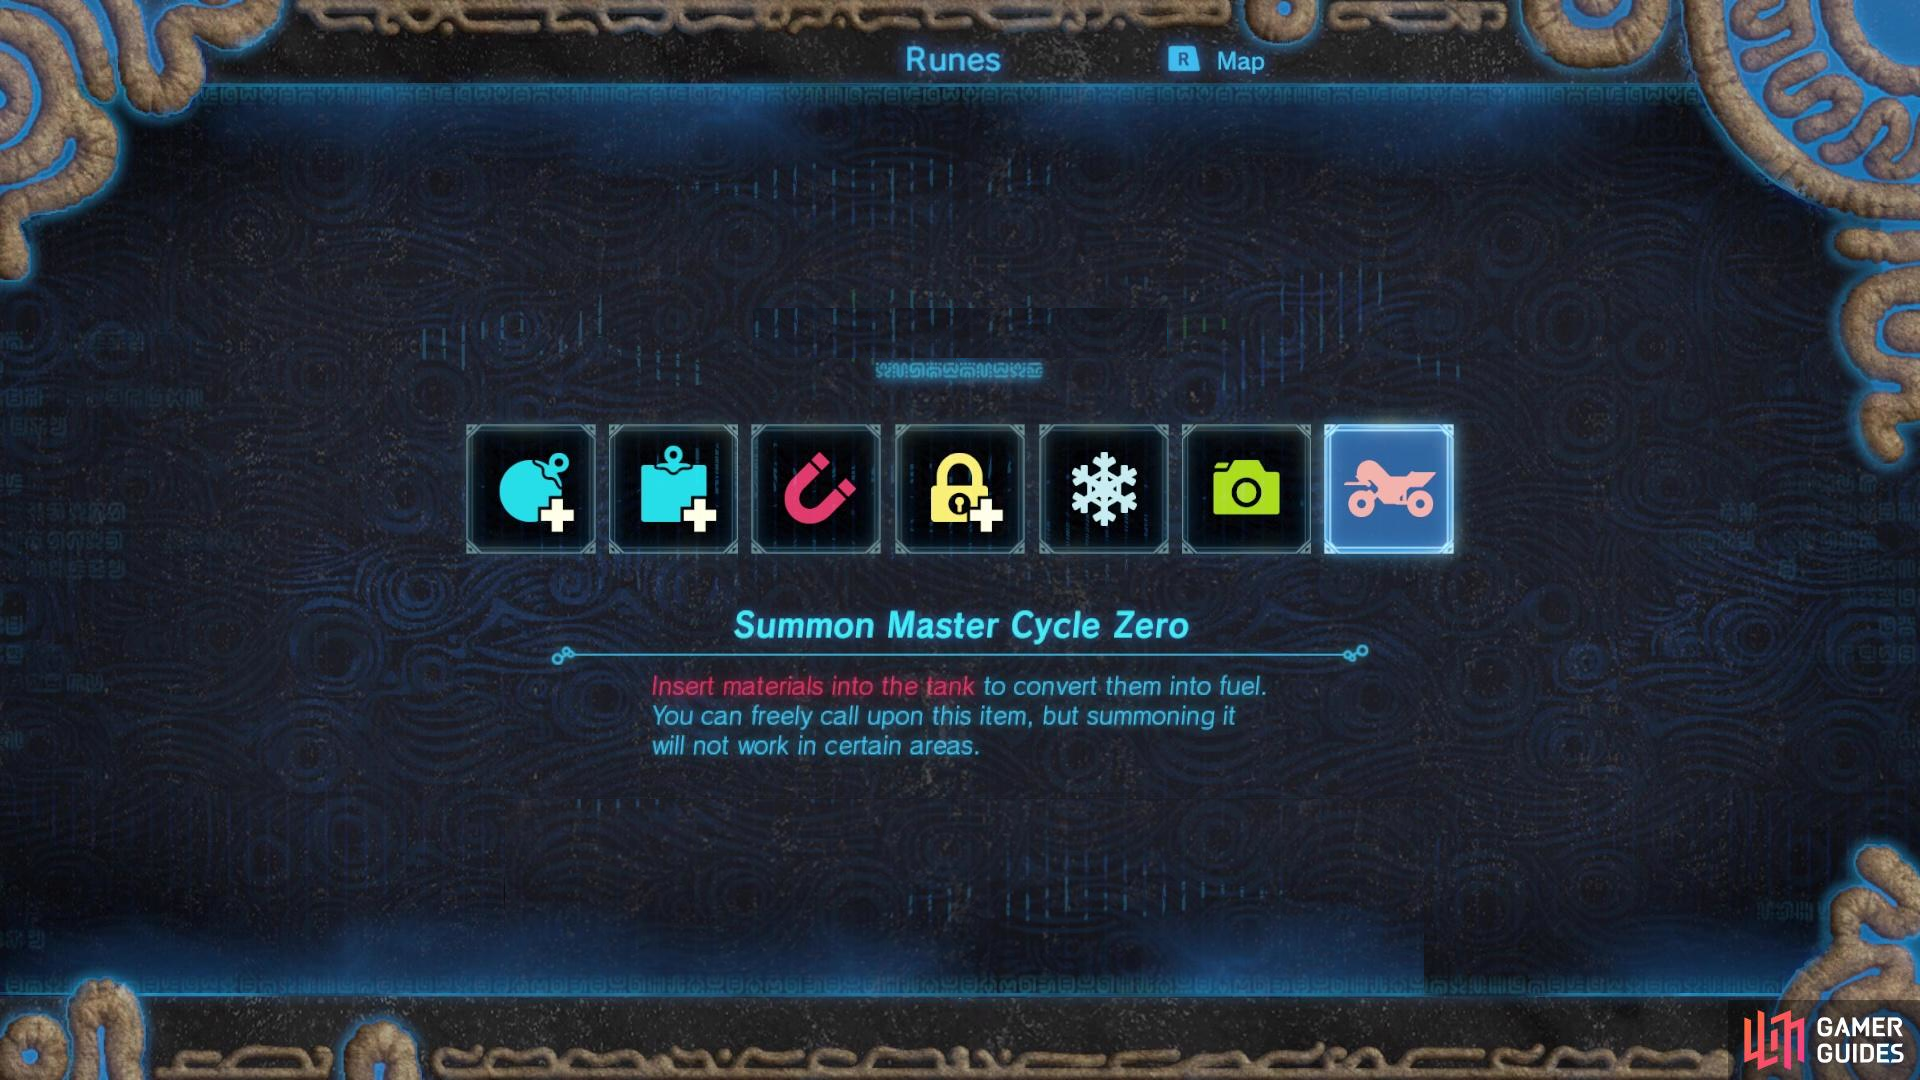
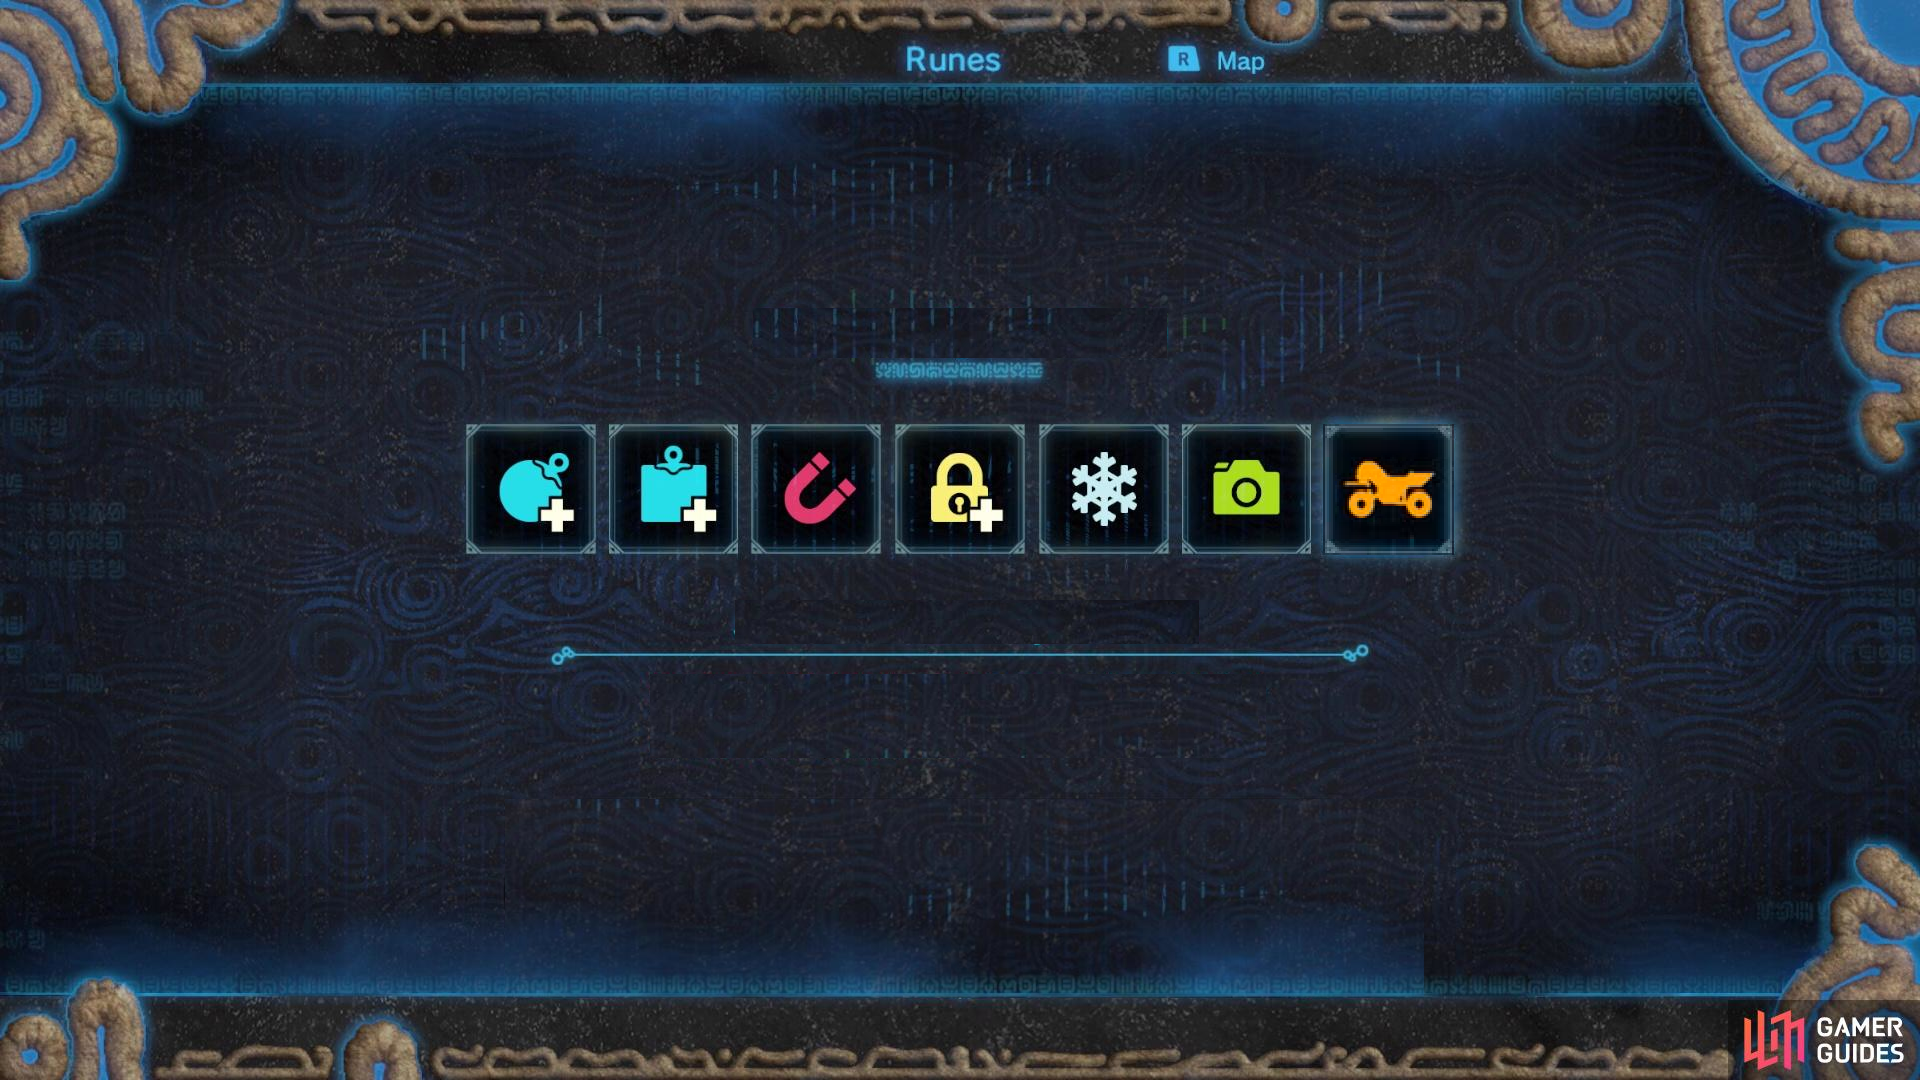
Portait correction start, rune details

Changed region(s): [[0.3438, 0.55, 0.6562, 0.7028], [0.6875, 0.3667, 0.7812, 0.5194]]

diff --git a/main.js b/main.js
@@ -4,7 +4,10 @@ let currentPage = 1; // Possible values: "runes", "map", "photos"
 let pageOrder = ["camera", "runes", "map", "photos", "compendium"]
 let touchstartX = 0;
 let touchendX = 0;
-
+let mp3s = [];
+for (let i = 0; i < 7; i++) {
+    mp3s.push(new Audio(`/assets/runeSfx/${i}.mp3`));
+}
 const swipeZone = document.body; // Or any specific element you want to track
 
 // Custom console.log that shows messages in a debug area on the page
@@ -18,11 +21,20 @@ function debug(message) {
 }
 debug("hi")
 swipeZone.addEventListener('touchstart', e => {
-    touchstartX = e.changedTouches[0].screenX;
+    if (screen.orientation.type.includes("portrait-primary")) {
+        touchstartX = e.changedTouches[0].screenY;
+    } else {
+        touchstartX = e.changedTouches[0].screenX;
+    }
 });
 
 swipeZone.addEventListener('touchend', e => {
-    touchendX = e.changedTouches[0].screenX;
+    if (screen.orientation.type.includes("portrait-primary")){
+        touchendX = e.changedTouches[0].screenY;
+    }
+    else {
+        touchendX = e.changedTouches[0].screenX;
+    }
     handleGesture();
 });
 
@@ -30,16 +42,21 @@ function handleGesture() {
     // Define a minimum horizontal distance for a valid swipe
     const swipeThreshold = 50;
 
+    let mult = 1;
+    if (screen.orientation.type.includes("portrait-primary")) {
+        mult = -1;
+    }
+
     if (touchendX < touchstartX - swipeThreshold) {
         // Swipe Left: Navigate to the next page
         debug("Swiped left!");
-        changePage(1);
+        changePage(1 * mult);
     }
 
     if (touchendX > touchstartX + swipeThreshold) {
         // Swipe Right: Navigate to the previous page
         debug("Swiped right!");
-        changePage(-1);
+        changePage(-1 * mult);
 
     }
 }
@@ -65,14 +82,41 @@ function changePage(delta) {
 
 // Runes
 let activeRune = 0;
+let lastSfxTime = 0;
 let runeNames = ["Remote Bomb +", "Remote Bomb +", "Magnesis", "Stasis +", "Cryonis", "Camera", "Master Cycle Zero"];
+let runeSubtitles = [
+    "A bomb that can be detonated remotely.",
+    "A bomb that can be detonated remotely.",
+    "Manipulate metallic objects using magnetism.",
+    "Stop the flow of time for an object.",
+    "Create a pillar of ice from a water surface.",
+    "Instantly render a visible image into a picture.",
+    "Summon Master Cycle Zero."
+]
+let runeDescriptions = [
+    "Powered-up bombs now have a stronger blast and recharge faster. The force of the blast can damage monsters or destroy objects. There are round and cube so use whichever best fits the situation.",
+    "Powered-up bombs now have a stronger blast and recharge faster. The force of the blast can damage monsters or destroy objects. There are round and cube so use whichever best fits the situation.",
+    "The Magnesis Rune allows you to lift and move metallic objects using magnetic force. You can manipulate these objects to solve puzzles, create bridges, or even use them as weapons against enemies.",
+    "The Stasis Rune lets you freeze objects in time temporarily. When you hit an object with Stasis, it will stop moving for a short period, allowing you to set up powerful kinetic energy releases when time resumes.",
+    "The Cryonis Rune enables you to create pillars of ice on water surfaces. These ice pillars can be used as platforms to cross bodies of water, reach higher areas, or block enemy movements.",
+    "The Camera Rune allows you to take pictures of your surroundings. You can capture images of landmarks, creatures, and items, which are then stored in your Hyrule Compendium for later reference.",
+    "The Master Cycle Zero is a powerful motorcycle that you can summon using this rune. It allows for fast travel across Hyrule, making exploration and transportation much more efficient."
+]
 function runeClickHandler(event) {
     activeRune = event.target.getAttribute("data-value");
     document.startViewTransition(()=> {
         document.querySelectorAll(".rune.selected").forEach((el) => {el.classList.remove("selected");});
         document.querySelector(`.rune[data-value='${activeRune}']`).classList.add("selected");
         document.getElementById("runeName").innerText = runeNames[activeRune];
+        document.getElementById("runeSubtitle").innerText = runeSubtitles[activeRune];
+        document.getElementById("runeDescription").innerText = runeDescriptions[activeRune];
     })
+    let currentTime = Date.now();
+    if (currentTime - lastSfxTime > 2000) { // Throttle to prevent rapid replays
+        mp3s[activeRune].currentTime = 0; // Rewind to start
+        mp3s[activeRune].play();
+        lastSfxTime = currentTime;
+    }
 }
 runeClickHandler({target: document.querySelector(`.rune[data-value='${activeRune}']`)});
 

diff --git a/index.html b/index.html
@@ -17,7 +17,7 @@
 <button style="position: absolute; top: 10px; left: 10px; z-index: 1000" onclick="window.location.reload();">
     Reload
 </button>
-<p id="log" style="color: white; position: absolute; bottom: 10px; left: 10px; font-family: monospace;">
+<p id="log" class="hidden" style="color: white; position: absolute; bottom: 10px; left: 10px; font-family: monospace;">
 
 </p>
 <div id="runesPage" class="page">
@@ -33,6 +33,8 @@
         <div class="rune" data-value="6"></div>
 <!--        <div class="rune" data-value="7"></div>-->
     </div>
+    <p id="runeSubtitle"></p>
+    <p id="runeDescription"></p>
 </div>
 <div id="mapPage" class="page hidden">
     <img src="images/map_overlay.png" id="mapOverlay">
@@ -54,6 +56,8 @@
 <style>
     :root {
         --selected-rune: 0;
+        --100-vh: 100vh;
+        --100-vw: 100vw;
     }
     body {
         margin: 0;
@@ -63,8 +67,8 @@
     }
 
     .page {
-        width: 100vw;
-        height: 100vh;
+        width: var(--100-vw);
+        height: var(--100-vh);
 
         display: flex;
         justify-content: center;
@@ -78,7 +82,7 @@
         top: 0;
         left: 0;
         width: 100%;
-        height: 100vh;
+        height: var(--100-vh);
         z-index: -10;
         object-fit: stretch;
         pointer-events: none;
@@ -96,9 +100,31 @@
         height: 3.4rem;
         outline: #0e4163 1px solid;
     }
+    @property --glow-radius {
+        syntax: '<length>';
+        inherits: false;
+        initial-value: 0;
+    }
     .rune.selected {
-        background: rgba(51, 106, 164, 0.8);
-        box-shadow: 0 2px 4px 0 rgba(51, 106, 164, 0.8);
+        --glow-radius: 4px;
+        --glow-spread: 5px;
+        background: rgba(51, 106, 164, 0.3);
+        box-shadow:
+        var(--glow-radius) var(--glow-radius) var(--glow-spread) 0px #4BECFC, var(--glow-radius) calc(var(--glow-radius) * -1) var(--glow-spread) 0px #4BECFC,
+        calc(var(--glow-radius) * -1) calc(var(--glow-radius) * -1) var(--glow-spread) 0px #4BECFC, calc(var(--glow-radius) * -1) var(--glow-radius) var(--glow-spread) 0px #4BECFC;
+        animation: glow 2s infinite;
+    }
+    /*--glow-radius oscilates between 2 and 4 px*/
+    @keyframes glow {
+        0% {
+            --glow-radius: 2px;
+        }
+        50% {
+            --glow-radius: 4px;
+        }
+        100% {
+            --glow-radius: 2px;
+        }
     }
     .hidden {
         display: none !important;
@@ -108,7 +134,7 @@
         top: 0;
         left: 0;
         width: 100%;
-        height: 100vh;
+        height: var(--100-vh);
         z-index: 10;
         /*object-fit: cover;*/
         pointer-events: none;
@@ -141,7 +167,7 @@
         top: 0;
         left: 0;
         width: 100%;
-        height: 100vh;
+        height: var(--100-vh);
         z-index: 10;
         object-fit: cover;
         pointer-events: none;
@@ -156,9 +182,45 @@
         /*text-shadow: 2px 2px 4px #000000;*/
         margin-bottom: 2rem;
     }
+    #runeSubtitle {
+        position: absolute;
+        top: 13.1rem;
+        font-family: "Calamity-Regular", "OpenSansBold", "Open Sans", sans-serif;
+        font-size: 1rem;
+        font-weight: bold;
+        color: #4becfc;
+        /*text-shadow: 2px 2px 4px #000000;*/
+        margin-bottom: 2rem;
+    }
+    #runeDescription {
+        position: absolute;
+        top: 15.5rem;
+        font-family: "Calamity-Regular", "OpenSansBold", "Open Sans", sans-serif;
+        font-size: 0.7rem;
+        font-weight: bold;
+        color: #4becfc;
+        /*text-shadow: 2px 2px 4px #000000;*/
+        margin-bottom: 2rem;
+        width: 22rem;
+    }
     @font-face {
         font-family: Calamity-Regular;
         src: url('/assets/Calamity-Regular/Calamity-Regular.otf') format('opentype');
+    }
+
+    @media screen and (min-width: 320px) and (max-width: 767px) and (orientation: portrait) {
+        html {
+            transform: rotate(-90deg);
+            transform-origin: left top;
+            width: 100vh;
+            height: 100vw;
+            overflow-x: hidden;
+            position: absolute;
+            top: 100%;
+            left: 0;
+            --100-vh: 100vw !important;
+            --100-vw: 100vh !important;
+        }
     }
 </style>
 </html>
